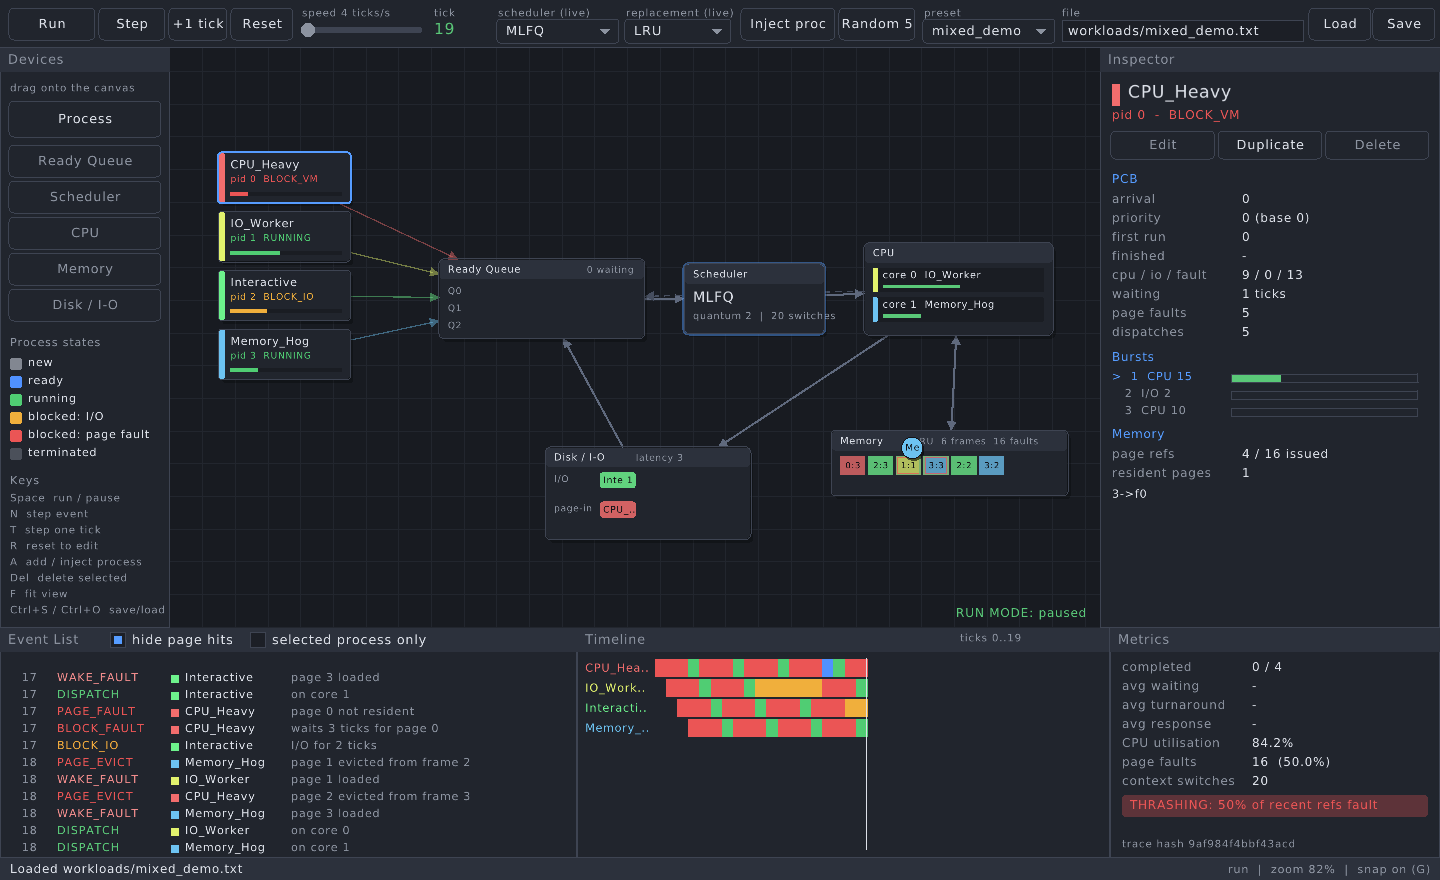
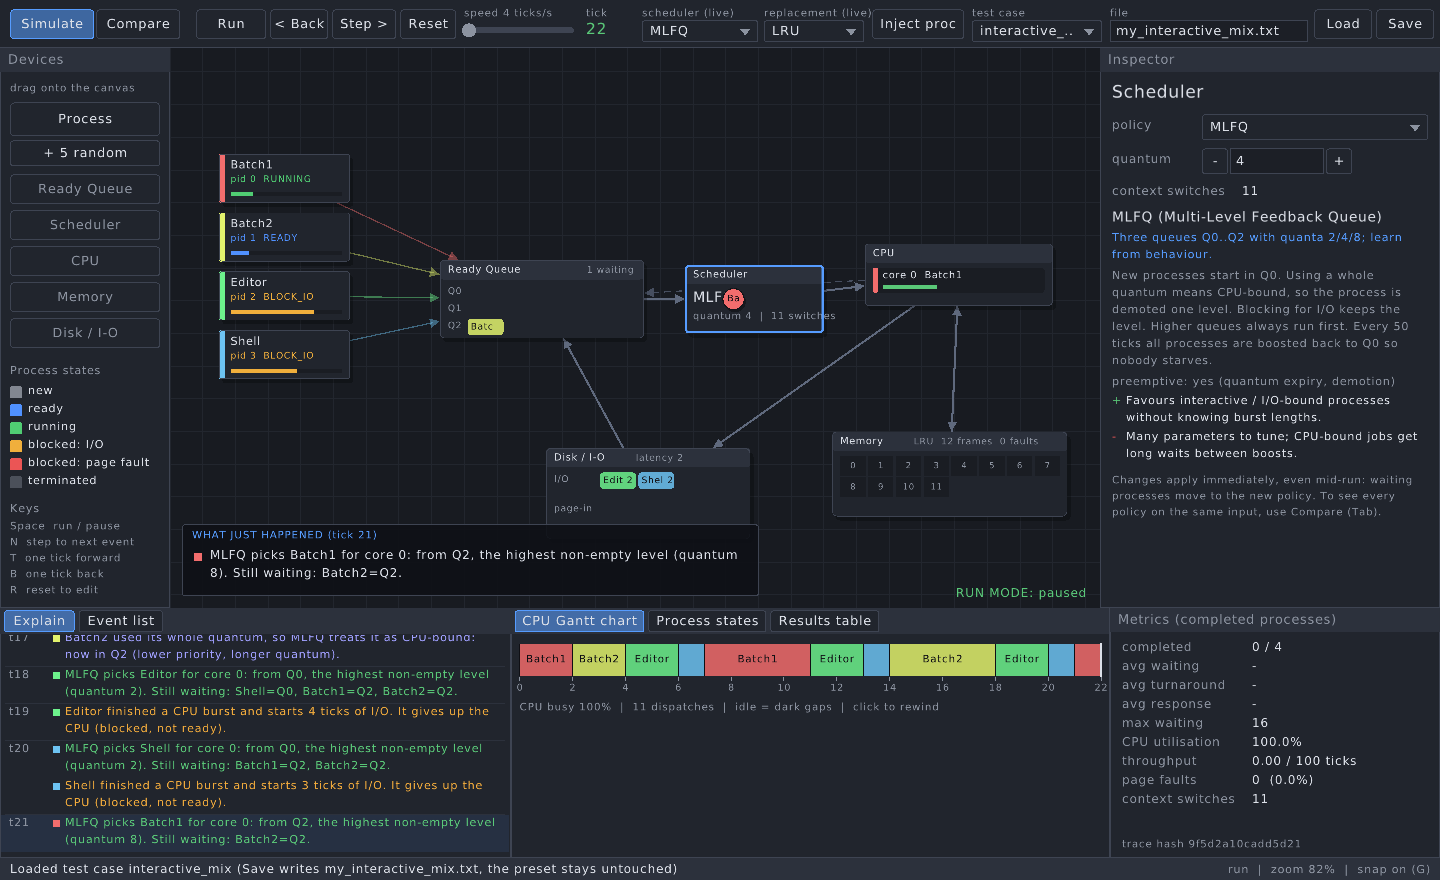
docs: describe Compare/Explain, add Milestone 12, log design decisions

diff --git a/README.md b/README.md
@@ -229,11 +229,26 @@ The GUI design is in `GUI_PLAN.md`.
 A "Packet Tracer for processes": build an OS scenario on a canvas, then run it and watch processes move through the system.
 
 - **Build:** drag *Process*, *Ready Queue*, *Scheduler*, *CPU*, *Memory* and *Disk / I-O* from the palette. The Process Builder scripts each process: name, arrival, priority, CPU/I-O bursts and page references. It also has templates (CPU-bound, I/O-bound, interactive, memory hog) and a seeded Random option.
-- **Run:** Run/Pause (Space), Step to the next event (N), single tick (T), speed slider, Reset (R). Each transition becomes a token travelling along the links. Memory frames flash on load (green) and eviction (red).
+- **Run:** Run/Pause (Space), Step to the next event (N), single tick (T), **Back one tick (B)**, speed slider, Reset (R). Each transition becomes a token travelling along the links. Memory frames flash on load (green) and eviction (red). Clicking the Gantt chart or the state timeline jumps to that tick (the run is deterministic, so rewinding = replaying from 0).
+- **Explain:** every decision is narrated as it happens, with the reason the algorithm used: "SJF picks P2 for core 0: shortest next CPU burst (4 ticks). Still waiting: P3=9, P4=5", "RAM is full. LRU evicts page 3 of P1 from frame 2: it is the least recently used (last use t12)". The newest sentences also appear over the canvas. The Scheduler and Memory inspectors show a card for the current algorithm (rule, preemptive or not, strengths, weaknesses).
 - **Interact while running:** inject a new process (it arrives *now*), switch the scheduler or replacement policy live, change disk latency.
 - **Inspect:** click any node for its PCB, burst progress, page table, queues, frame table and controls.
-- **Panels:** event list (click a row to select that process), per-process timeline, live metrics with a thrashing flag and the trace hash.
-- **Files:** Save/Load (Ctrl+S / Ctrl+O), presets from `workloads/`, or drag a file onto the window. Scenario files include the node layout and still run in `prism-cli`.
+- **Panels:** Explain / Event list on the left; textbook CPU Gantt chart, per-process state timeline and the **results table** (arrival, CPU, start, finish, turnaround, waiting, response, faults, with averages) in the middle; live metrics with a thrashing flag and the trace hash on the right.
+- **Files:** Save/Load (Ctrl+S / Ctrl+O), test cases from `workloads/`, or drag a file onto the window. Scenario files include the node layout and still run in `prism-cli`. Loading a bundled test case points Save at `my_<name>.txt`, so the presets are never overwritten.
+
+### Compare view (Tab)
+
+![compare](docs/prism-compare.png)
+
+Runs the same test cases under several algorithms and puts the results side by side. Every run is a fresh copy of the test case with the same seed (`sim_prepare_variant`), so only the algorithm differs.
+
+- **CPU scheduling:** pick any of the 8 schedulers and any test cases (the current scenario plus every `workloads/*.txt`). Optional quantum override. A grouped bar chart shows one metric (avg waiting / turnaround / response, max waiting, context switches, CPU utilisation, throughput, makespan) over all test cases and names the algorithm that wins most often. The focused test case gets a full table (best value green, worst red) and **one Gantt chart per algorithm on a shared time axis**.
+- **Page replacement:** FIFO / LRU / Clock / OPT with an optional frame-count override. Shows **faults vs number of frames** for each policy (Belady's anomaly is detected and called out) and the **textbook frame table**: frame contents after every reference, faults marked F, the loaded frame in red, hits boxed in green.
+- **Open** on any row loads that test case in the Simulate view with that algorithm, ready to step through.
+
+![compare-vm](docs/prism-compare-vm.png)
+
+Bundled test cases, each with a comment saying what to look for (shown in the Compare view): `textbook_rr`, `convoy` (FCFS convoy effect), `starvation` (SJF/SRTF starve a long job), `interactive_mix` (response time: MLFQ vs FCFS), `classic_vm` (FIFO 15 / LRU 12 / OPT 9), `belady`, `locality` (LRU beats FIFO), `thrashing`, `mixed_demo`.
 
 Build it (raylib 5.x; the simulator core stays library-free):
 
@@ -245,7 +260,7 @@ make -C ~/raylib/src PLATFORM=PLATFORM_DESKTOP && make gui RAYLIB_DIR=~/raylib
 ./prism-gui workloads/mixed_demo.txt
 ```
 
-`./prism-gui FILE --ticks N --select NODE --shot out.png` renders one frame to a PNG and exits (used for screenshots and headless smoke tests under Xvfb).
+`./prism-gui FILE --ticks N --select NODE --shot out.png` renders one frame to a PNG and exits (used for screenshots and headless smoke tests under Xvfb); it prints the final tick and trace hash. Other flags: `--tab explain|events|gantt|states|table`, `--compare sched|vm` (open the Compare view), `--back N` (rewind N ticks after `--ticks`, to check that replay is exact).
 
 ## Interactive Dashboard (`prism-tui`)
 

diff --git a/CLAUDE.md b/CLAUDE.md
@@ -36,12 +36,13 @@ make gui        # prism-gui (raylib via pkg-config, or RAYLIB_DIR=<raylib checko
 | `src/engine/sim.c` | Tick-driven main loop `sim_step()` (6 phases: arrivals, I/O, fault service, dispatch, wait accounting, execution), extensions |
 | `src/engine/sim_api.c` / `sim_api.h` | Interactive API: `proc_spec_t`, spawn/remove/update, reset, live policy switch, `sim_set_frames`, `sim_run_until`, `sim_step_event`, observer |
 | `src/engine/scenario.c` / `scenario.h` | Scenario save/load = workload format + `layout node=K x= y=` lines; `layout_t` |
+| `src/engine/metrics.c` / `metrics.h` | `sim_metrics_compute` (avg wait/turnaround/response, max wait, util, throughput, faults), `sim_prepare_variant` (rewound copy with other policies), `sim_run_bounded` |
 | `src/engine/workload.c` / `workload.h` | Workload parser (`proc NAME arrival= priority= bursts=C5,I3 pages=...`), generators |
 | `src/sched/schedulers.c` | 8 schedulers behind `sched_ops_t` (registry + `sched_lookup`) |
 | `src/vm/replacement.c` | FIFO/LRU/Clock/OPT behind `repl_ops_t` (registry + `repl_lookup`) |
 | `src/cli/main.c`, `src/ui/tui.c` | Frontends |
-| `tests/test_prism.c`, `tests/test_api.c` | Core suite, interactive API suite |
-| `gui/` | raylib GUI: `main_gui.c` (loop, modes, keys, file I/O), `canvas.c` (nodes, links, pan/zoom, hit-test), `anim.c` (observer → tokens), `panels.c` (toolbar, palette, event list, timeline, metrics, context menu), `inspector.c`, `builder.c` (process builder), `widgets.c` (own immediate-mode widgets) |
+| `tests/test_prism.c`, `tests/test_api.c`, `tests/test_metrics.c` | Core suite, interactive API suite, metrics/comparison suite (textbook answers) |
+| `gui/` | raylib GUI: `main_gui.c` (loop, views, keys, seek/rewind, file I/O), `canvas.c` (nodes, links, pan/zoom, hit-test), `anim.c` (observer → tokens), `explain.c` (narration + algorithm cards), `gantt.c` (Gantt chart, state timeline, results table), `panels.c` (toolbar, palette, tabbed bottom panes, metrics, context menu), `inspector.c`, `builder.c` (process builder), `compare.c` / `compare_view.c` / `compare.h` (Compare view: runner, charts, frame table), `widgets.c` (own immediate-mode widgets) |
 
 ### Where the code differs from architecture.md (it is the original design; the code wins)
 - Engine is **tick-stepped** (`sim_step` = one tick), not a min-heap of events; there is no `EV_ARRIVAL` — arrivals are admitted in phase 1 when `arrival_tick <= tick`.
@@ -84,3 +85,8 @@ make gui        # prism-gui (raylib via pkg-config, or RAYLIB_DIR=<raylib checko
 - Edit mode = tick 0. Pressing Run/Step enters Run mode; Reset (`sim_reset`) returns to Edit. In Run mode the builder *injects* (`sim_spawn_process`, arrives now). Frames and cores need a reset, so their controls are disabled while running; scheduler, replacement and disk latency apply live.
 - The GUI steps one tick at a time (its "Step" mirrors `sim_step_event`), so it can record per-tick process states for the timeline. Tokens are queued per process so same-tick transitions play back to back; above 30 ticks/s animation is off and only the views update.
 - Added `sim_set_cores` (resets) and `sim_set_disk_latency` (live) to `sim_api` for the CPU and Disk inspectors.
+- **Metrics live in the core (`metrics.h`)**, not in each frontend, so the GUI's metrics panel, its Compare view and the tests use one definition. Averages are over *completed* processes; waiting = ticks in READY (equals turnaround − burst only when there is no I/O or fault time).
+- **Comparison = `sim_prepare_variant` on scratch `sim_t` copies** (copy, detach observer, `sim_reset`, apply policy/quantum/frames). Runs are synchronous and recomputed only when a setting changes (a few ms for all presets). A run that has not finished by 50 000 ticks is shown as "did not finish". The GUI keeps ≤ 4096 Gantt ticks per run.
+- **Rewind (Back / click a timeline) = reset + replay to the target tick**, not snapshots (a `sim_t` is 0.5 MB). Exact because the engine is deterministic and injected processes keep their arrival tick; live policy switches made during the run are not recorded, so the replay uses the current policies (the status line says so).
+- **Narration is generated inside the observer**, because only then is the state that justified a decision still visible (other ready processes and their SJF/SRTF/CFS/BFS keys; the victim frame's load/last-use tick before it is overwritten). It reads `sim_t` and never changes it.
+- **Bundled presets are read-only from the GUI:** loading one points Save at `my_<name>.txt` (they are reference inputs for Compare and for `tests/`).

diff --git a/plan.md b/plan.md
@@ -66,7 +66,7 @@ Foundation: events, processes, workload parsing, first scheduler, headless outpu
 - [x] Flat memory snapshot & rewind verified
 - [x] Extended test coverage for new schedulers (SJF, SRTF, CFS, BFS)
 - [x] Documentation & workload guide updates in README.md
-- [x] GUI Development → Milestones 7–10 done (`prism-gui`), M11 polish open
+- [x] GUI Development → Milestones 7–10 and 12 done (`prism-gui`), M11 polish mostly done
 
 ---
 
@@ -97,9 +97,17 @@ Foundation: events, processes, workload parsing, first scheduler, headless outpu
 - [x] **Inject process mid-run**
 
 ## Milestone 11 — Polish & demo
-- [ ] Clean `make debug` run, no leaks; determinism test through the API
-- [x] Preset scenarios menu (lists `workloads/*.txt`) — [ ] add dedicated thrash / starvation presets
-- [x] Screenshot for report (`docs/prism-gui.png`, `--shot`); [ ] GIF; demo script: build scenario live → run → inject process → switch FIFO↔LRU → show thrashing
+- [x] Clean `make debug` run, no leaks (core + GUI under ASan/UBSan); determinism test through the API (`tests/test_metrics.c`, GUI `--back`)
+- [x] Preset scenarios menu (lists `workloads/*.txt`) — [x] dedicated presets: `convoy`, `starvation`, `interactive_mix`, `thrashing`, `locality`
+- [x] Screenshots for report (`docs/prism-gui.png`, `docs/prism-compare*.png`, `--shot`); [ ] GIF; demo script: build scenario live → run → inject process → switch FIFO↔LRU → show thrashing
+
+## Milestone 12 — Compare & learn (GUI overhaul)
+- [x] Core: `metrics.[ch]` — `sim_metrics_compute` (one definition of every metric), `sim_prepare_variant` (rewound, observer-free copy with other policies / quantum / frames), `sim_run_bounded`; `tests/test_metrics.c` checks textbook answers (FCFS 8.75, SJF 7.75, SRTF 6.5, RR 11.75; FIFO 15 / LRU 12 / OPT 9; Belady 9 -> 10)
+- [x] Compare view: algorithms x test cases, metric bar chart with "best on most cases", results table, per-algorithm Gantt charts on one time axis
+- [x] Page replacement compare: faults-vs-frames curve with Belady detection, textbook frame table per policy
+- [x] Explain: per-event narration with the algorithm's reason (who else was waiting and their key), caption over the canvas, algorithm cards in the inspector
+- [x] Step back / click a timeline to rewind (deterministic replay); textbook CPU Gantt chart; per-process results table
+- [x] Fixes: Save no longer overwrites bundled presets; failed startup load no longer leaves an uninitialised sim; clicks inside bottom panels (event rows, timelines) work again
 
 ---
 
@@ -108,7 +116,7 @@ Foundation: events, processes, workload parsing, first scheduler, headless outpu
 - [x] **Extension 2: Fault injection** — dynamic process crash/kill (`sim_kill_process`), dynamic physical memory shrink fault (`sim_shrink_frames`).
 - [x] **Extension 3: IPC + sync** — deterministic mailbox message queues (`sim_ipc_send`, `sim_ipc_recv`), blocking wait-for-message states (`PROC_BLOCKED_IPC`), synchronous wakeups on message arrival.
 - [x] **Extension 4: Checkpoint / Restore** — per-process snapshot slots (`sim_checkpoint_create`, `sim_checkpoint_restore`) + full simulation state serialization & rewind.
-- [x] **Extension 5: GUI Frontend** — `prism-gui` (Milestones 8–10; M11 polish open).
+- [x] **Extension 5: GUI Frontend** — `prism-gui` (Milestones 8–10, 12 compare & explain; M11 polish: GIF + demo script open).
 
 ## Weekly checkpoint
 End of each week: milestone checkboxes ticked, `make test` green, one new demo-able thing you can show.

diff --git a/GUI_PLAN.md b/GUI_PLAN.md
@@ -2,7 +2,7 @@
 
 Adds **Milestone 7+** to `plan.md` and amends `CLAUDE.md`. Existing code (TUI, sim core, schedulers, VM) is the base.
 
-> **Status:** M7–M10 are implemented (`gui/`, `make gui`). Not built yet: undo, scrub-back, free-form wiring, dashed ghost links (a validation banner is shown instead), MLFQ level/aging editing, context-switch cost.
+> **Status:** M7–M10 and M12 (Compare view, Explain narration, step back / scrub-back by deterministic replay) are implemented (`gui/`, `make gui`). Not built yet: undo, free-form wiring, dashed ghost links (a validation banner is shown instead), MLFQ level/aging editing, context-switch cost.
 >
 > **Reconciled with the code (Milestone 7, done).** The real API is in `include/prism/sim_api.h` and `include/prism/scenario.h`; differences from the sketch in §3 are recorded in `CLAUDE.md`'s decision log. In short: `sim_add_process(proto)` → `sim_spawn_process(const proc_spec_t *)`; the observer delivers `sim_event_t` / `event_type_t` instead of a new `obs_kind` enum (no IDLE event); layout lives inline in the scenario file; `struct sim` is `sim_t`, `struct pcb` prototype is `proc_spec_t`.
 
